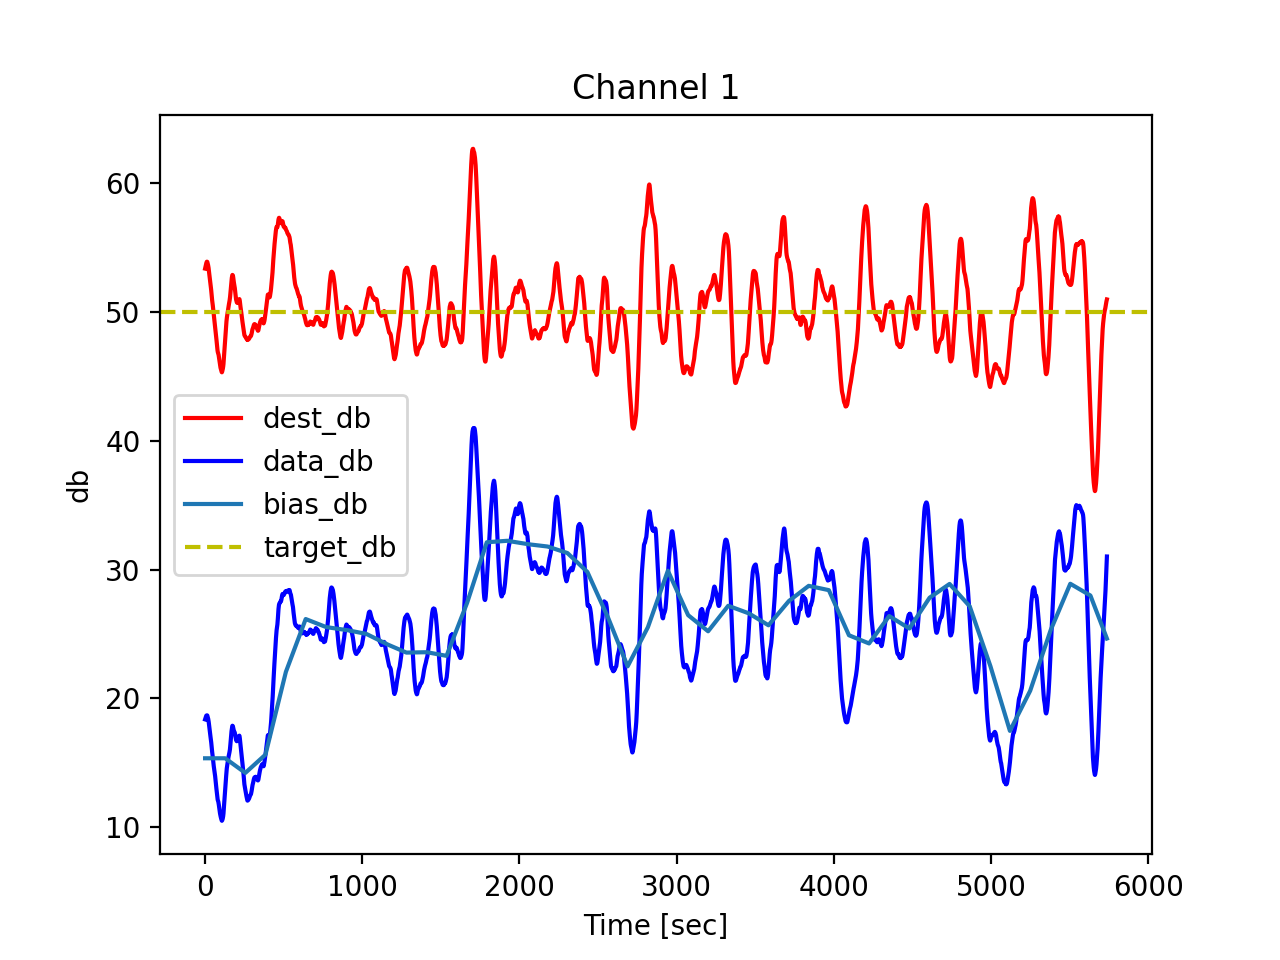
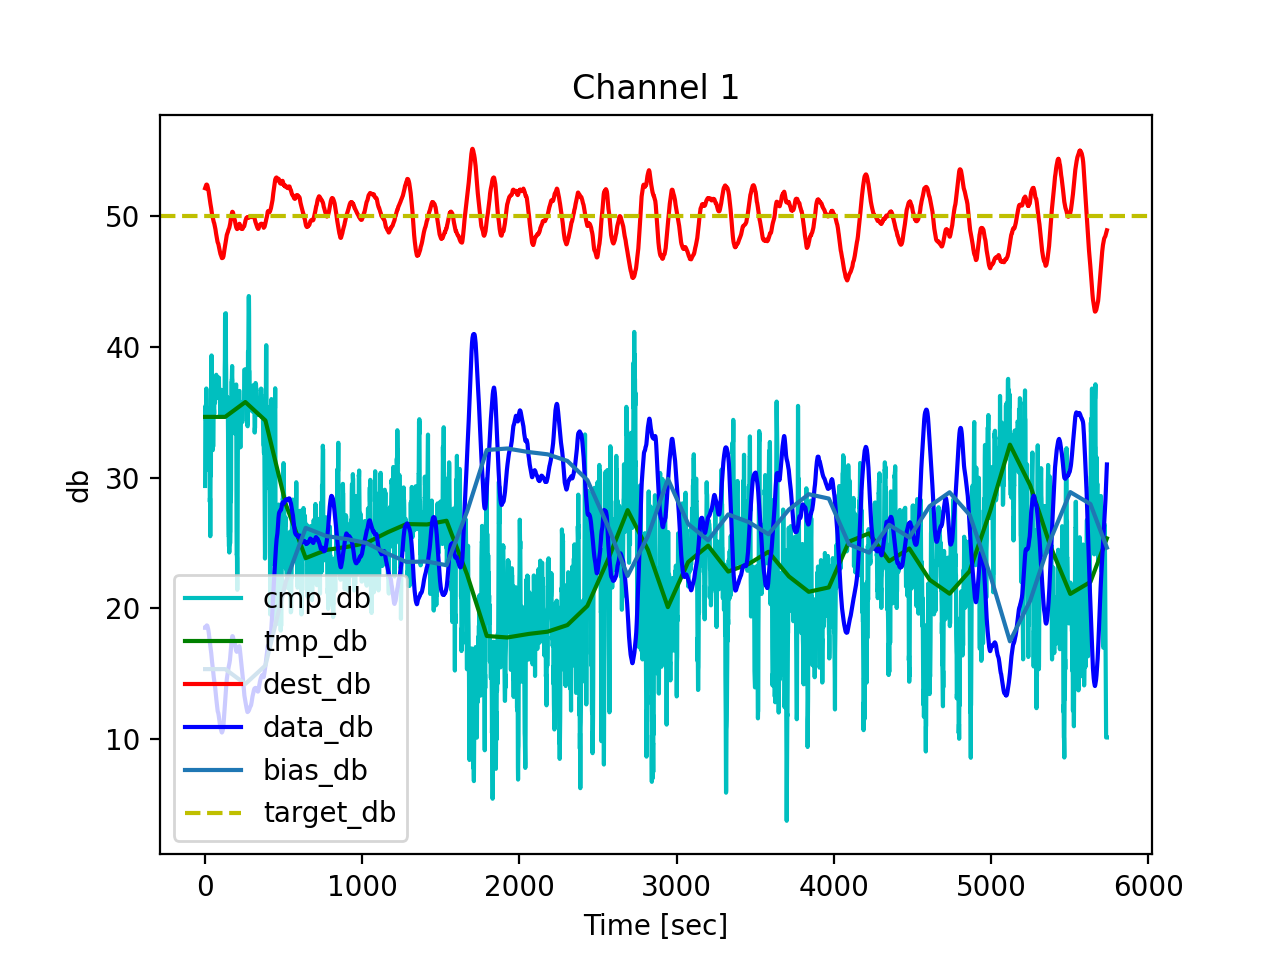
Add simple compressor

Changed region(s): [[0.0625, 0.1562, 0.875, 0.875], [0.2188, 0.8125, 0.3125, 0.875]]

diff --git a/wlev.py b/wlev.py
@@ -19,7 +19,7 @@ def yes_no_input():
             return True
         elif choice in ['n', 'no']:
             return False
-        print("Please respond with 'yes' or 'no' [y/N]: ")
+        print("wlev.py: Please respond with 'yes' or 'no' [y/N]: ")
 
 # 位置引数
 parser = argparse.ArgumentParser(description='Script to automatically adjust the volume of wav.')
@@ -29,6 +29,7 @@ parser.add_argument('-d', '--db', type=int, default=50, choices=range(30,71), he
 parser.add_argument('-w', '--window', type=int, default=64, help='[Width of the window function]')
 parser.add_argument('-n', '--n', type=int, default=1024, help='[samplesize of to_db]')
 parser.add_argument('-p', '--plot', action='store_true')
+parser.add_argument('-c', '--comp', action='store_true')
 args = parser.parse_args()
 input_file = os.path.abspath(args.arg1)
 output_file = os.path.abspath(args.arg2)
@@ -79,6 +80,15 @@ def smoothing(array, a):
     x = np.convolve(array, v, mode='valid')[:-1]
     return x
 
+def comp(dest_db, th, ratio, target_db, data_db, bias_db):
+    if th > 0:
+        bool_list = data_db - bias_db > th
+    else:
+        bool_list = th > data_db - bias_db
+    ratio = abs(data_db - bias_db)[bool_list] * ratio
+    dest_db[bool_list] = (data_db[bool_list] - th) * (1/ratio - 1) - bias_db[bool_list]/ratio + target_db
+    return dest_db
+
 # 分離した音声ファイルをwaveモジュールで読み込む
 with wave.open(processing_file) as wav:
     samplewidth = wav.getsampwidth()
@@ -102,11 +112,12 @@ T = round(nframes/framerate) + 1 #sec
 t=np.array(range(T))#デシベル変換とグラフに用いる時間の配列
 extended_T = T + W * 2
 extended_t = np.array(range(extended_T))
-dest = np.empty(nchannels * nframes)#配列 data と分けないと音質が劣化する
-mag = np.empty(nchannels * nframes)
-tmp_db = np.empty(extended_T)
+data_db = np.empty(nchannels * T)
 bias_db = np.empty(nchannels * T)
+tmp_db = np.empty(extended_T)
+mag = np.empty(nchannels * nframes)
 stft_duration = W//2 + W%2
+dest = np.empty(nchannels * nframes)#配列 data と分けないと音質が劣化する
 
 if W > T:
     print(f"wlev.py: The wav file is too short. The duration of the wav file must be longer than {W} seconds.")
@@ -121,15 +132,28 @@ for whichchannel in range(nchannels):
     extended_data = np.concatenate([-data[whichchannel:W*framerate*nchannels+whichchannel:nchannels][::-1], data[whichchannel::nchannels], -data[-W*framerate*nchannels+whichchannel::nchannels][::-1]])
     #デシベル変換
     extended_db = to_db(extended_data, N, extended_t, target_db)
+    data_db[whichchannel::nchannels] = extended_db[W:W + T]
     #stftで直流バイアスを得る
     f, stft_t, stft_data = sp.stft(extended_db, fs = 1, window = "hann", nperseg = W)
     tmp_db = np.repeat(np.real(stft_data[0,:]), stft_duration)[:extended_T]
     bias_db[whichchannel::nchannels] = smoothing(tmp_db, W)[stft_duration * 2:stft_duration * 2 + T]
-    mag[whichchannel::nchannels] = np.repeat(np.power(10, (target_db - bias_db[whichchannel::nchannels])/20 ), framerate)[:nframes]
+
+tmp_db = target_db - bias_db
+
+#コンプレッサー 
+if args.comp == True:
+    tmp_db = comp(tmp_db, 10, 5, target_db, data_db, bias_db)
+    tmp_db = comp(tmp_db, -10, 5, target_db, data_db, bias_db)
+
+for whichchannel in range(nchannels):
+    if args.comp == True:
+        #適当な秒数でスムージングする
+        tmp_db[whichchannel::nchannels] = smoothing(tmp_db[whichchannel::nchannels], 8)
+    mag[whichchannel::nchannels] = np.repeat(np.power(10, (tmp_db[whichchannel::nchannels])/20 ), framerate)[:nframes]
 
 dest = data * mag#data と dest 分けないとここで劣化
 
-# マキシマイズと型変換
+#リミッターと型変換
 dest[dest > np.iinfo(wav_type).max] = np.iinfo(wav_type).max
 dest[dest < np.iinfo(wav_type).min] = np.iinfo(wav_type).min
 dest = dest.astype(wav_type)
@@ -145,9 +169,13 @@ if args.plot == True:
     e_time = time.time() - s_time; print(f'wlev.py: {e_time}秒かかりました！')# 実行時間 = 終了時間 - 開始時間
     for whichchannel in range(nchannels):
         plt.title(f'Channel {whichchannel+1}')
+        if args.comp == True:
+            plt.plot(t[:-1],tmp_db[whichchannel::nchannels][:-1],'c',label="cmp_db")
+        plt.plot(t[:-1],(target_db - bias_db)[whichchannel::nchannels][:-1],'g',label="tmp_db")
         dest_db = to_db(dest[whichchannel::nchannels], N, t, target_db);dest_db = smoothing(dest_db, 60);dest_db = smoothing(dest_db, 30);plt.plot(t[:-1],dest_db[:-1],'r',label="dest_db")
-        data_db = to_db(data[whichchannel::nchannels], N, t, target_db);data_db = smoothing(data_db, 60);data_db = smoothing(data_db, 30);plt.plot(t[:-1],data_db[:-1],'b',label="data_db")
-        plt.plot(t[:-1],bias_db[whichchannel:-nchannels+whichchannel:nchannels],label="bias_db")
+        #plt.plot(t[:-1],data_db[whichchannel:-nchannels+whichchannel:nchannels],'b',label="data_db")
+        data_db2 = smoothing(data_db[whichchannel::nchannels], 60);data_db2 = smoothing(data_db2, 30);plt.plot(t[:-1],data_db2[:-1],'b',label="data_db")
+        plt.plot(t[:-1],bias_db[whichchannel::nchannels][:-1],label="bias_db")
         plt.axhline(y=target_db,xmin=0,xmax=T-1,color='y',linestyle='dashed',label="target_db")
         plt.legend()
         plt.xlabel("Time [sec]");plt.ylabel("db")

diff --git a/README.md b/README.md
@@ -6,19 +6,22 @@
 - wavの音量を自動で調節するスクリプト
   - 多チャンネル wav 対応
   - プロットを表示するには `-p` か `--plot`
+  - コンプレッサーをかけるには `-c` か `--comp`
   - 音量（デフォルト 50 [db] ）を指定するには `-d` か `--db`
   - 窓関数の幅（デフォルト 64 [sec] ）を指定するには `-w` か `--window`
-  - デシベル変換のサンプルサイズ（デフォルト 1024 [sample] ）を指定するには `-n` か `--n`
+  - デシベル変換のサンプルサイズ（デフォルト 1024 [sample] ）を指定するには `-s` か `--sample`
 - 音量を一定にするだけでは強弱の情報を失い違和感が生まれるので工夫した
   - 音量の直流バイアスを調節の基準にとる
-  - wav が壊れないようにマキシマイズするのみに留めている
-    - 将来的にコンプレッサーとその逆を追加して距離の変化を完全に分からなくしたい
-    - 唐突な奇声・絶叫によるダメージも軽減できるはず
+  - 簡単なコンプレッサーを実装した
+    - 唐突な奇声・絶叫によるダメージを軽減できる
+    - コンプレッサーをかけても距離の変化を感じられる
+      - 音声の真の音量を知るには残響などその他の音量を測る必要がある？
+      - 音源分離が必要そう
 - "AUTO LEVEL"という TASCAM の録音機に付いている入力レベルを調節する機能を気に入ったのでバッチ処理で再現した
   - リアルタイム処理専用のツールばかりだからバッチ処理用ツールは作り甲斐がある
 - 名前は "wav auto level" から
 - 歩きまわる人間のボリュームを調節し続ける作業から解放するこれはかなり便利でとても役に立つ
-- 48 kHz, 16 bit, 95分のステレオ音声の処理にかかる時間は1分程度 ↓
+- 48 kHz, 16 bit, 95分のステレオ音声の処理にかかる時間は1分程度（窓関数の幅は256秒，変化の見やすさのため） ↓
 ![wlev_50](resouces/wlev_50.png)
 
 ## [wav_conversion.py](wav_conversion.py)
